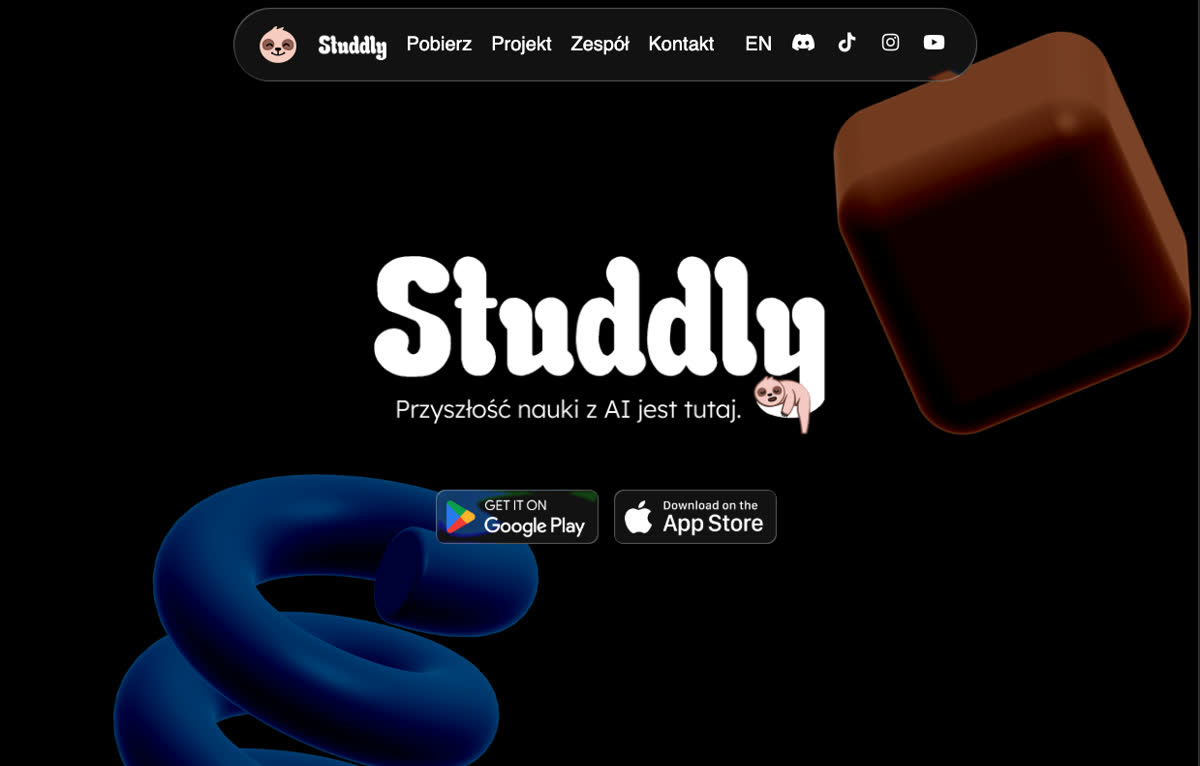
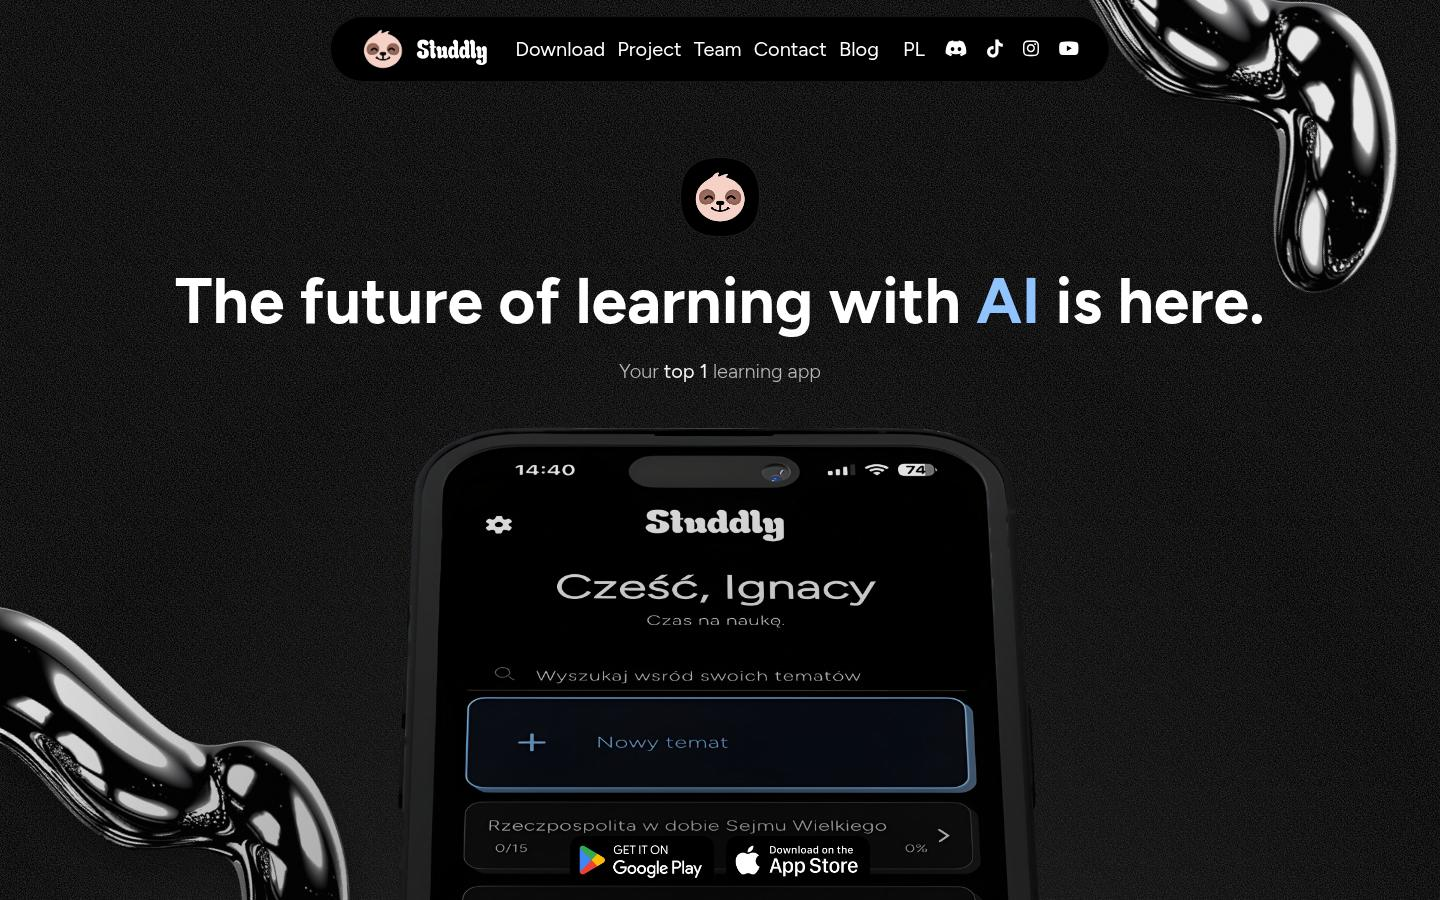
Refresh Studdly screenshots, fix Newear imagery, suspend KeMacro
- Studdly: five new screenshots of the current studdly.app (hero,
  photo scan, learning path, reviews, team).
- Newear: the hero collage and gallery no longer show a bare product
  photo; they use screenshots of the store instead, and the copy makes
  clear the work was the website, not the clothes.
- KeMacro: state set to suspended.

Claude-Session: https://claude.ai/code/session_01RAEbowhyS1Qjk7HFNMTtPT

diff --git a/components/home/Hero.tsx b/components/home/Hero.tsx
@@ -28,9 +28,9 @@ const COLLAGE = [
 	},
 	{
 		slug: "newear",
-		src: "/src/thumbnails/newear/3.jpg",
-		alt: "Newear hoodie and sweatpants set",
-		pos: "right-[6%] bottom-[-2%] w-[32%]",
+		src: "/src/thumbnails/newear/1.jpg",
+		alt: "Newear online store",
+		pos: "right-[2%] bottom-[2%] w-[50%]",
 		rotate: "6deg",
 		drift: "-190px",
 		delay: 500,
